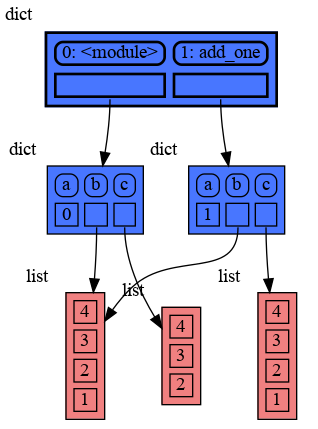
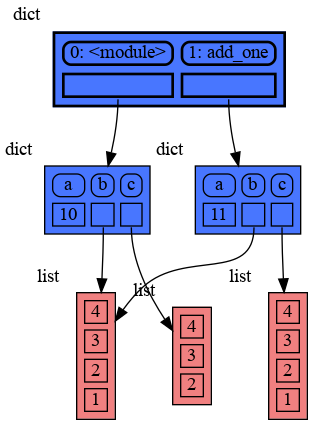
update

diff --git a/images/copy_method.py b/images/copy_method.py
@@ -5,7 +5,7 @@ class My_Class:
 
     def __init__(self):
         self.numbers = [1, 2]
-        self.letters = ['a', 'b']
+        self.letters = ['x', 'y']
 
     def copy(self): # custom copy method copies the numbers but shares the letters
         c = copy.copy(self)

diff --git a/images/copies.py b/images/copies.py
@@ -1,7 +1,7 @@
 import memory_graph
 import copy
 
-a = [ [1, 2], ['a', 'b'] ] # a nested list (a list containing other lists)
+a = [ [1, 2], ['x', 'y'] ] # a nested list (a list containing other lists)
 
 # three different ways to make a "copy" of 'a':
 c1 = a

diff --git a/images/add_one.py b/images/add_one.py
@@ -6,7 +6,7 @@ def add_one(a, b, c):
     c.append(1)
     memory_graph.render( memory_graph.get_call_stack(), "add_one.png")
 
-a = 0
+a = 10
 b = [4, 3, 2]
 c = [4, 3, 2]
 

diff --git a/README.md b/README.md
@@ -73,7 +73,7 @@ Python offers three different "copy" options that we will demonstrate using a ne
 import memory_graph
 import copy
 
-a = [ [1, 2], ['a', 'b'] ] # a nested list (a list containing other lists)
+a = [ [1, 2], ['x', 'y'] ] # a nested list (a list containing other lists)
 
 # three different ways to make a "copy" of 'a':
 c1 = a
@@ -100,7 +100,7 @@ class My_Class:
 
     def __init__(self):
         self.numbers = [1, 2]
-        self.letters = ['a', 'b']
+        self.letters = ['x', 'y']
 
     def copy(self): # custom copy method copies the numbers but shares the letters
         c = copy.copy(self)
@@ -179,7 +179,7 @@ def add_one(a, b, c):
     c.append(1)
     memory_graph.show(memory_graph.get_call_stack())
 
-a = 0
+a = 10
 b = [4, 3, 2]
 c = [4, 3, 2]
 
